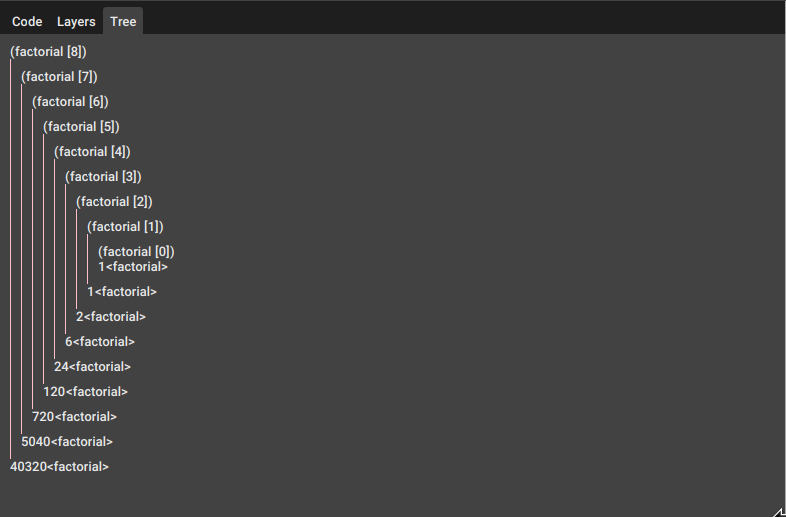
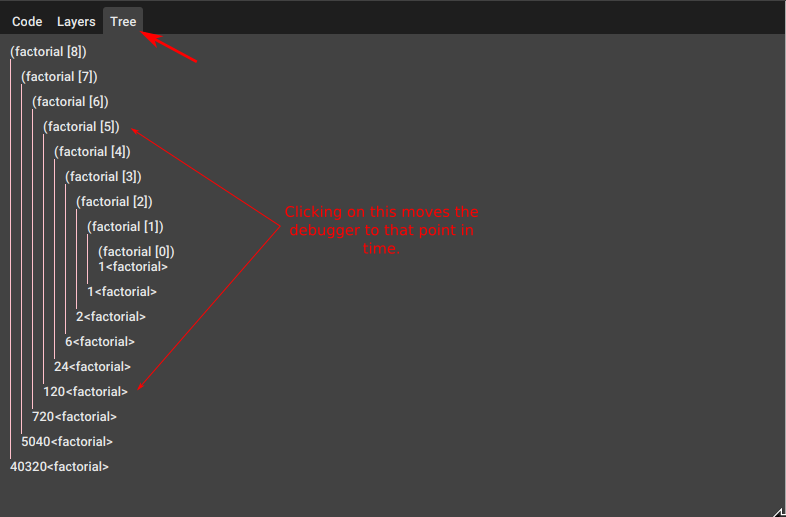
Updating readme

diff --git a/Readme.md b/Readme.md
@@ -10,6 +10,7 @@ A Clojure and ClojureScript debugger with some unique features.
 
 - **Clojure and ClojureScript** (browser, nodejs and react-native) support.
 - **Step** through expressions **forward and backward in time**.
+- **Exceptions** debugging.
 - **Locals** inspection.
 - **Multiple flows** tracing (see [flows](#flows)).
 - **Save, load and share** your debugging sessions (see [saving and loading](#saving-and-loading)).
@@ -19,13 +20,12 @@ A Clojure and ClojureScript debugger with some unique features.
 - Multiple ways of **jumping in time**.
 
 ## Running the debugger
+
 ```bash
 clj -Sdeps '{:deps {jpmonettas/flow-storm-debugger {:mvn/version "0.3.0"}}}' -m flow-storm-debugger.server
 ```
 
-And point your browser to http://localhost:7722
-
-One instance of the debugger is enough for all your Clojure and ClojureScript projects.
+And that's it !! One instance of the debugger is enough for all your Clojure and ClojureScript projects.
 
 ## Instrumenting your code
 
@@ -63,11 +63,15 @@ It is made of two components :
 in order to instrument your code.
 - this debugger, which you will use to analyze your traces.
 
+This is a overview of the main screen layout :
+
+![demo](./docs/overview.png)
+
 ### Stepping forward and backward in time
 
 You can use the three buttons in the top left corner to move forward and backward in time.
 
-Press the `Reset` button to move the debugger to the first trace of the flow.
+Press the reset button to move the debugger to the first trace of the flow.
 
 There are other ways of moving through time, see [layers](#layers) and [call tree](#call-tree).
 
@@ -111,32 +115,28 @@ Observe the traces generated by all this functions are going to belong to the se
 One nice thing about flows is that you can save and load them. This can be useful for comparing it with other executions of the same code,
 share them so other people can take a look and maybe help you debug something or just because you want to analyze them later.
 
-For saving a flow, just click the `Save` button on the top right corner. A popup should show asking for a file name.
+For saving a flow, just click the save button on the top right corner. A popup should show asking for a file name.
 Type the file name and hit enter. The flow will be stored in the same folder you are running the debugger.
 
-For loading a stored flow, click the `Load` button, select the flow file, and you will
+For loading a stored flow, click the load button, select the flow file, and you will
 have the flow loaded in the debugger ready for you to start analyzing.
 
 ### <a name="call-tree"></a> Call tree
 
-Calls tree is the tool located in the top right panel, under the `calls` tab.
+Calls tree is the tool located under the `Tree` tab. 
 
-![demo](./docs/calls_tree.png)
+![demo](./docs/call_tree.png)
 
 It shows how functions are being called, their arguments and their return values.
 
-It is useful as the overview of a complicated flow, and as the starting point when
+It is useful as a overview of a complicated flow, I use it also as the starting point when
 chasing a bug that involves multiple functions calls.
 
-Clicking on function calls or returns will move the debugger to that position in time.
+Clicking on function calls or returns will moves the debugger to that position in time.
 
 ### <a name="layers"></a> Layers
 
-Layers is the tool located in the top right panel, under the `layers` tab.
-
-![demo](./docs/layers1.png)
-
-![demo](./docs/layers2.png)
+Layers is the tool located under the `Layers` tab.
 
 It is useful for analyzing iterations, doesn't matter if they are loops or recursive functions.
 
@@ -145,6 +145,14 @@ different values or "layers" in time.
 
 The layers tools allows you to inspect all the values the current expression evaluated to.
 
+Imagine you just traced the factorial function and stepped to the `(dec n)` expression like this :
+
+![demo](./docs/layers1.png)
+
+Now clicking on the `Layers` tab will show you all the traced executions for that form :
+
+![demo](./docs/layers2.png)
+
 Clicking on any layer will also move the debugger to that point in time.
 
 ### Locals
@@ -152,7 +160,30 @@ Clicking on any layer will also move the debugger to that point in time.
 The locals panel is the one located in the bottom right corner. It shows the current values
 of your local bindings.
 
+![demo](./docs/locals.png)
+
 Clicking on any locals open a pop up showing the binding value pretty printed.
+
+### Errors and Exceptions
+
+If a exception is throwed during the execution of a flow the debugger will automatically 
+get positioned on that trace, so you can move around and figure out what caused the exception.
+
+A new `Errors` panel will show at the bottom left corner displaying all the exceptions captured for this flow.
+
+![demo](./docs/errors.png)
+
+Clicking on errors will move the debugger to that point in time.
+
+### Working at the repl
+
+Tracing with `#ztrace` instead of `#trace` can be handy when working at the repl.
+
+`#ztrace` will trace all forms with flow-id 0, so the debugger will smash the new traces over the
+same flow tab instead of creating multiple tabs.
+
+Only the form that "fires the flow" needs to be traced with `#ztrace`, the rest of the form can be just
+traced with a normal `#trace`.
 
 ## Developers section
 
